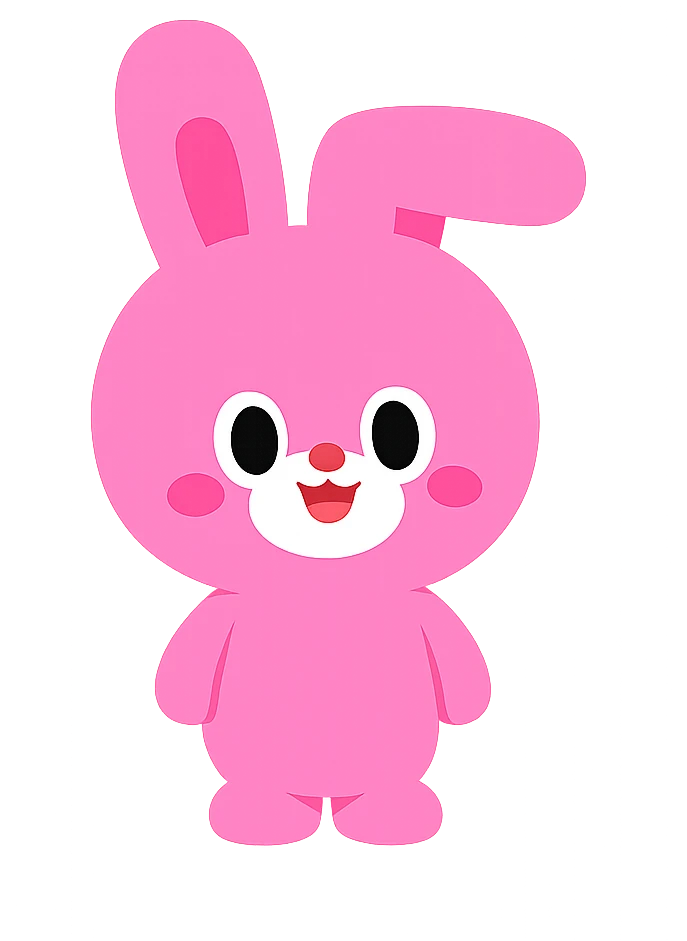
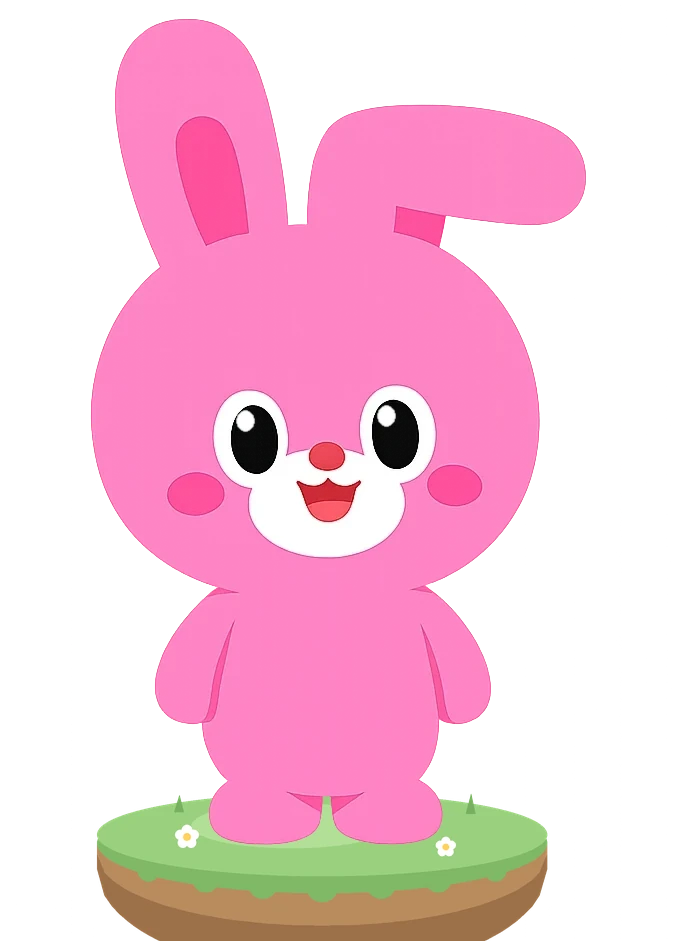
feat(learner): 토끼 컴패니언 눈 생기·조각섬 배경 추가
- 눈동자에 반사광을 넣어 또렷한 인상으로 교체
- 발밑에 부감 시점의 조각섬(잔디+흙 곡면 슬랩, 풀잎·꽃 디테일) 합성
- 상태별 발 높이를 섬 표면에 정렬(correct -55px 등), 점프 포즈는 제외
- 캐릭터 위치를 36px 위로 조정(bottom -48px -> -12px)

diff --git a/src/styles/common/LearnerRabbitCompanion.css b/src/styles/common/LearnerRabbitCompanion.css
@@ -48,7 +48,7 @@
 .rabbit-companion__character {
   position: absolute;
   right: -78px;
-  bottom: -48px;
+  bottom: -12px;
   width: 343px;
   height: 470px;
   padding: 0;
@@ -70,6 +70,12 @@
   height: 100%;
   object-fit: contain;
   filter: drop-shadow(0 10px 9px rgb(58 65 105 / 17%));
+}
+
+/* 마이크 그림은 원본에서 몸이 오른쪽으로 치우쳐 있어(왼쪽에 마이크 공간)
+   상태 전환 시 토끼가 오른쪽으로 점프해 보인다. 눈 위치 기준으로 되돌린다 */
+.rabbit-companion--microphone .rabbit-companion__character img {
+  transform: translateX(-38px);
 }
 
 .rabbit-companion--microphone .rabbit-companion__character,
